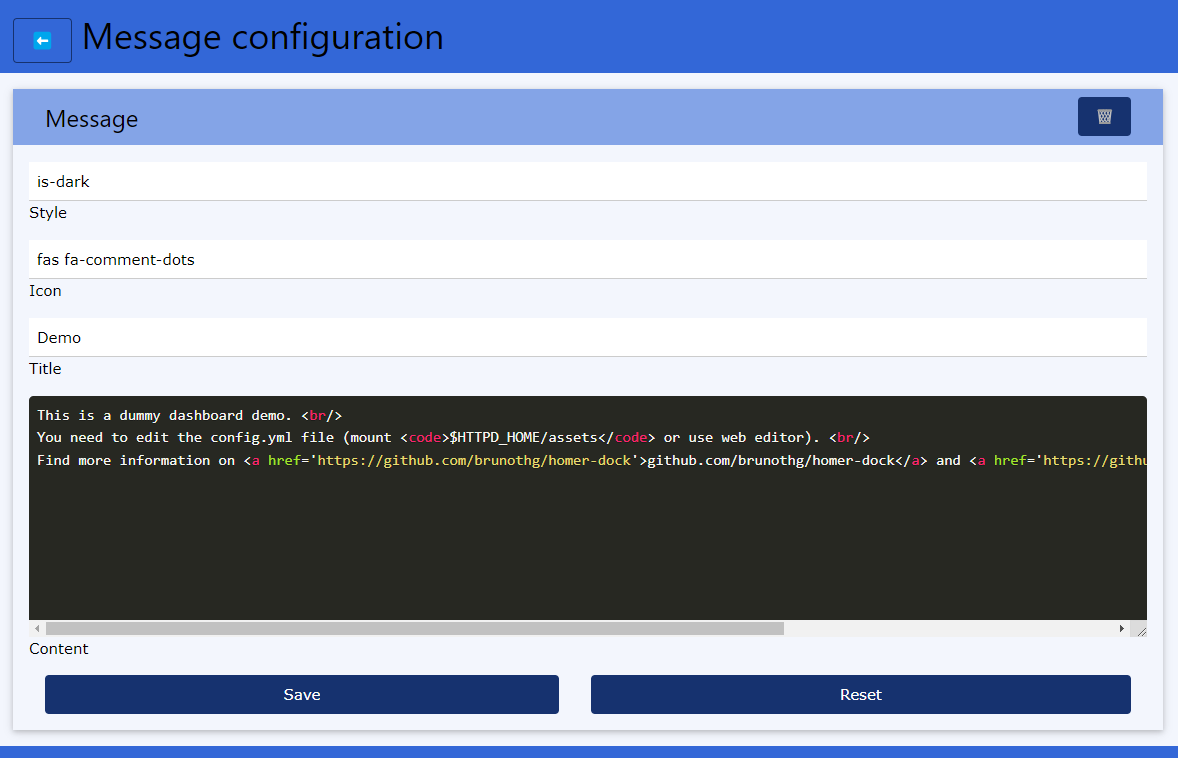
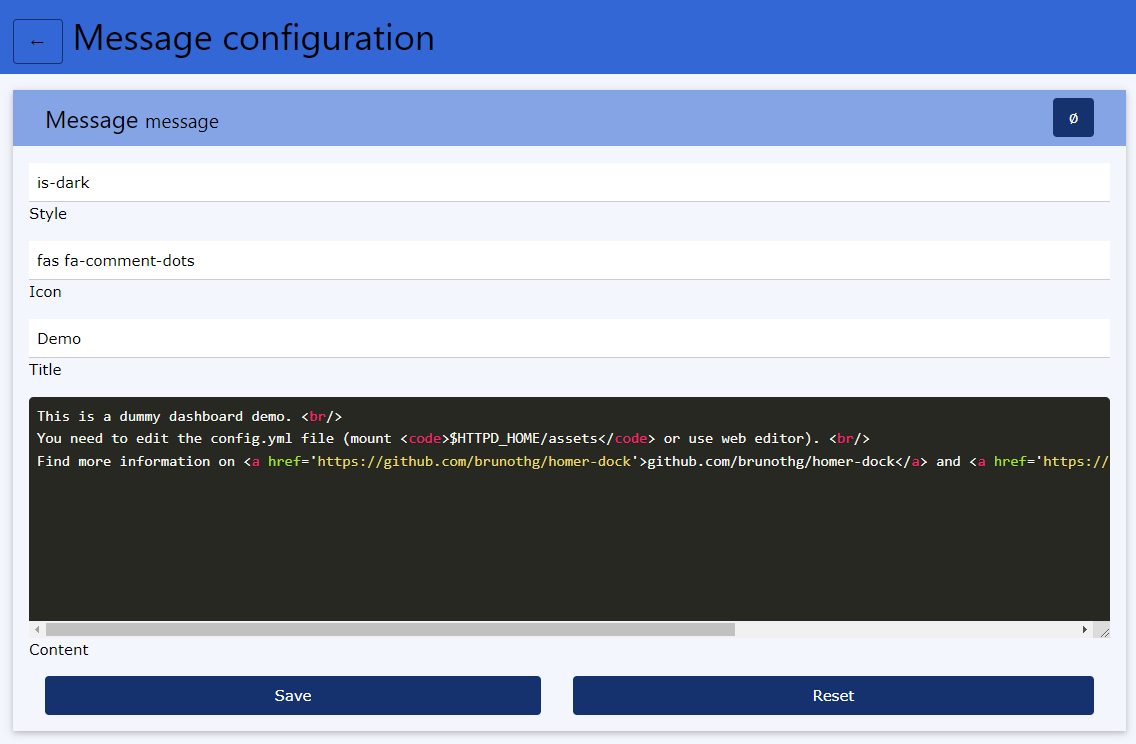
Bugfix/css (#11)
fix css (instead of js)
use theme color

Changed region(s): [[0.0, 0.4328, 1.0, 1.0], [0.0, 0.0, 1.0, 0.3091], [0.0308, 0.3401, 0.1849, 0.4019]]

diff --git a/src/www/config/config.js b/src/www/config/config.js
@@ -1,28 +1,135 @@
 const HomerConfig = new (class {
 
-    objFillForm(obj, form, preserve = false) {
-        form.querySelectorAll('input[name], select[name], textarea[name]').forEach(input => {
-            const name = input.name;
-            if (obj.hasOwnProperty(name) || !preserve) {
-                input.value = obj[name] || null;
-                input.dispatchEvent(new Event('change'));
+            objFillForm(obj, form, preserve = false) {
+                form.querySelectorAll('input[name], select[name], textarea[name]').forEach(input => {
+                    const name = input.name;
+                    if (obj.hasOwnProperty(name) || !preserve) {
+                        input.value = obj[name] || null;
+                        input.dispatchEvent(new Event('change'));
+                    }
+                })
             }
-        })
-    }
 
-    formToObj(form) {
-        if (!form) {
-            return null;
+            formToObj(form) {
+                if (!form) {
+                    return null;
+                }
+                const formData = new FormData(form);
+
+                const dataObj = {};
+                for (const key of formData.keys()) {
+                    const values = formData.getAll(key);
+                    dataObj[key] = (values == null || values.length <= 0) ? null : (values.length === 1) ? values[0] : values;
+                }
+
+                return dataObj;
+            }
+
+            color2Rgba(color) {
+                let r = 0,
+                    g = 0,
+                    b = 0,
+                    a = 1.0;
+
+                if (color) {
+                    if (typeof color === 'string') {
+                        if (color.startsWith('rgb')) {
+                            const parts = color
+                                .split(new RegExp('[(),]'))
+                                .filter(ele => ele != null && !Number.isNaN(parseFloat(ele)));
+                            r = (parts.length > 0) ? parseInt(parts[0]) : 0;
+                            g = (parts.length > 1) ? parseInt(parts[1]) : 0;
+                            b = (parts.length > 2) ? parseInt(parts[2]) : 0;
+                            a = (parts.length > 3) ? parseFloat(parts[3]) : 1.0;
+                        } else if (color.startsWith('#')) {
+                            const parts = (color
+                                .substring(1)
+                                .match(new RegExp('.{1,2}', 'g')) || [])
+                                .filter(ele => ele != null && !Number.isNaN(parseInt(ele, 16)));
+                            r = (parts.length > 0) ? parseInt(parts[0], 16) : 0;
+                            g = (parts.length > 1) ? parseInt(parts[1], 16) : 0;
+                            b = (parts.length > 2) ? parseInt(parts[2], 16) : 0;
+                            a = (parts.length > 3) ? (parseInt(parts[3], 16) / 255.0) : 1.0;
+                        }
+                    }
+                } else if (typeof color === 'object') {
+                    if (
+                        ['r', 'g', 'b']
+                            .map(ele => color.hasOwnProperty(ele))
+                            .reduce((acc, cur) => acc && cur)
+                    ) {
+                        r = color.r || 0;
+                        g = color.g || 0;
+                        b = color.b || 0;
+                        a = (color.a != null) ? color.a : 1.0;
+                    }
+                }
+
+                return ({r: r, g: g, b: b, a: a})
+            }
+
+            color2Hsla(color) {
+                const rgba = this.color2Rgba(color);
+
+                const r = rgba.r / 255;
+                const g = rgba.g / 255;
+                const b = rgba.b / 255;
+                const a = rgba.a;
+
+                const cmin = Math.min(r, g, b);
+                const cmax = Math.max(r, g, b);
+                const delta = cmax - cmin;
+
+                let h, s, l;
+
+                if (delta === 0) {
+                    h = 0;
+                } else if (cmax === r) {
+                    h = ((g - b) / delta) % 6;
+                } else if (cmax === g) {
+                    h = (b - r) / delta + 2;
+                } else {
+                    h = (r - g) / delta + 4;
+                }
+
+                h = Math.round(h * 60);
+                if (h < 0) {
+                    h += 360;
+                }
+
+                l = (cmax + cmin) / 2;
+                s = delta === 0 ? 0 : delta / (1 - Math.abs(2 * l - 1));
+                s = +(s * 100).toFixed(1);
+                l = +(l * 100).toFixed(1);
+
+                return ({h: h, s: s, l: l, a: a});
+            }
+
+            async updateTheme() {
+                const manifestResp = await fetch('config/manifest/manifest.exec');
+                if (!manifestResp.ok) {
+                    console.warn("Could not load manifest:", manifestResp.status, manifestResp.statusText);
+                    return;
+                }
+                const manifest = await manifestResp.json();
+                const themeColor = '' + manifest['theme_color'];
+
+                if (themeColor) {
+                    const hsla = this.color2Hsla(themeColor);
+                    console.log("Update theme color", themeColor, hsla)
+
+                    const docStyle = document.querySelector(':root').style;
+                    docStyle.setProperty('--w3-theme-hsl-h', hsla.h)
+                    docStyle.setProperty('--w3-theme-hsl-s', hsla.s + '%')
+                    docStyle.setProperty('--w3-theme-hsl-l', hsla.l + '%')
+                }
+            }
+
         }
-        const formData = new FormData(form);
 
-        const dataObj = {};
-        for (const key of formData.keys()) {
-            const values = formData.getAll(key);
-            dataObj[key] = (values == null || values.length <= 0) ? null : (values.length === 1) ? values[0] : values;
-        }
+    )()
+;
 
-        return dataObj;
-    }
-
-})();
+HomerConfig
+    .updateTheme()
+    .then();

diff --git a/src/www/config/dashboard/index.html b/src/www/config/dashboard/index.html
@@ -26,7 +26,7 @@ Copyright 2023 brunothg
 
     <title data-lang="dashboard-config-title">Dashboard configuration</title>
 </head>
-<body>
+<body class="w3-flex w3-wh100">
 
 <header class="w3-container w3-theme">
     <h1>
@@ -35,8 +35,8 @@ Copyright 2023 brunothg
     </h1>
 </header>
 
-<main class="w3-container w3-theme-light">
-    <section class="w3-section w3-card">
+<main class="w3-container w3-theme-light w3-flex w3-flex-grow w3-scrollable">
+    <section class="w3-section w3-card w3-flex w3-flex-grow">
         <header class="w3-container w3-row w3-theme-l2">
             <div class="w3-container w3-show-inline-block">
                 <h3><span data-lang="dashboard-config-form-title">Dashboard</span> <small id="dashboard-config-form-subtitle"></small></h3>
@@ -48,10 +48,10 @@ Copyright 2023 brunothg
                 </button>
             </div>
         </header>
-        <form id="dashboard-config-form" name="dashboard-config" class="w3-container">
-            <div class="w3-section">
-                <div class="prism-editor" data-prism-lang="yaml">
-                    <textarea id="dashboard-config-form-input-content" name="content" class="w3-input"></textarea>
+        <form id="dashboard-config-form" name="dashboard-config" class="w3-container w3-flex w3-flex-grow">
+            <div class="w3-section w3-flex w3-flex-grow">
+                <div class="prism-editor w3-flex w3-flex-grow" data-prism-lang="yaml">
+                    <textarea id="dashboard-config-form-input-content" name="content" class="w3-input w3-flex-grow" rows="10"></textarea>
                 </div>
                 <label for="dashboard-config-form-input-content"
                        data-lang="dashboard-config-form-input-configuration">Configuration</label>
@@ -102,22 +102,11 @@ Copyright 2023 brunothg
             deleteDashboard().then();
         });
 
-        function resizeEditor() {
-            dashboardConfigEditor.style.display = 'none';
-            dashboardConfigEditor.style.height = `max(15rem, ${window.innerHeight - document.body.offsetHeight}px)`;
-            dashboardConfigEditor.style.display = '';
-        }
-
-        window.addEventListener('resize', () => {
-            resizeEditor();
-        });
-
         const infoText = document.getElementById('info-text');
 
         function setInfo(info) {
             const now = new Date();
             infoText.innerText = `${(now.getHours() + '').padStart(2, '0')}:${(now.getMinutes() + '').padStart(2, '0')}:${(now.getSeconds() + '').padStart(2, '0')} | ${info}`;
-            resizeEditor();
         }
 
         async function deleteDashboard() {
@@ -169,7 +158,6 @@ Copyright 2023 brunothg
             return dashboardConfig;
         }
 
-        resizeEditor();
         updateDashboard().then();
         PrismEditor.highlightAll();
     }

diff --git a/src/www/config/index.html b/src/www/config/index.html
@@ -22,16 +22,17 @@ Copyright 2023 brunothg
 
     <title data-lang="homer-config-title">Homer configuration</title>
 </head>
-<body>
+<body class="w3-flex w3-wh100">
 
 <header class="w3-container w3-theme">
     <h1>
-        <a class="w3-btn w3-round w3-large w3-border w3-border-theme-action" data-lang-attr="title=back" title="Back" href=".">&larr;</a>
+        <a class="w3-btn w3-round w3-large w3-border w3-border-theme-action" data-lang-attr="title=back" title="Back"
+           href=".">&larr;</a>
         <span data-lang="homer-config-title">Homer configuration</span>
     </h1>
 </header>
 
-<main class="w3-container w3-theme-light">
+<main class="w3-container w3-theme-light w3-flex-grow w3-scrollable">
     <div class="w3-margin-auto" style="max-width: 1280px">
         <section class="w3-section">
             <div>
@@ -41,7 +42,8 @@ Copyright 2023 brunothg
                     </div>
                     <div class="w3-show-inline-block w3-padding w3-right">
                         <button id="homer-config-dashboards-btn-new" type="button"
-                                class="w3-btn w3-round w3-border w3-border-theme-action w3-hover-green" data-lang-attr="title=new" title="New">
+                                class="w3-btn w3-round w3-border w3-border-theme-action w3-hover-green"
+                                data-lang-attr="title=new" title="New">
                             +
                         </button>
                     </div>
@@ -62,7 +64,8 @@ Copyright 2023 brunothg
                     </div>
                     <div class="w3-show-inline-block w3-padding w3-right">
                         <button id="homer-config-messages-btn-new" type="button"
-                                class="w3-btn w3-round w3-border w3-border-theme-action w3-hover-green" data-lang-attr="title=new" title="New">
+                                class="w3-btn w3-round w3-border w3-border-theme-action w3-hover-green"
+                                data-lang-attr="title=new" title="New">
                             +
                         </button>
                     </div>

diff --git a/src/www/resources/w3/w3-addons.css b/src/www/resources/w3/w3-addons.css
@@ -1,5 +1,15 @@
+html {
+    width: 100vw;
+    height: 100vh;
+}
+
 textarea {
     resize: vertical;
+}
+
+input[type=color] {
+    padding: 0;
+    height: 2rem;
 }
 
 .w3-hide-empty:empty {
@@ -20,4 +30,48 @@ textarea {
 
 .w3-capitalize {
     text-transform: capitalize;
+}
+
+.w3-scrollable-x, .w3-scrollable {
+    overflow-x: auto;
+}
+
+.w3-scrollable-y, .w3-scrollable {
+    overflow-y: auto;
+}
+
+.w3-w100, .w3-wh100, .w3-hw100 {
+    width: 100%;
+}
+
+.w3-h100, .w3-wh100, .w3-hw100 {
+    height: 100%;
+}
+
+.w3-flex {
+    display: flex;
+}
+
+.w3-flex-vertical, .w3-flex:not(.w3-flex-horizontal) {
+    flex-direction: column;
+}
+
+.w3-flex-horizontal {
+    flex-direction: row;
+}
+
+.w3-flex-grow, .w3-flex-grow1 {
+    flex-grow: 1;
+}
+
+.w3-flex-shrink, .w3-flex-shrink1 {
+    flex-shrink: 1;
+}
+
+.w3-flex-grow0 {
+    flex-grow: 0;
+}
+
+.w3-flex-shrink0 {
+    flex-shrink: 0;
 }

diff --git a/src/www/config/message/index.html b/src/www/config/message/index.html
@@ -26,7 +26,7 @@ Copyright 2023 brunothg
 
     <title data-lang="message-config-title">Message configuration</title>
 </head>
-<body>
+<body class="w3-flex w3-wh100">
 
 <header class="w3-container w3-theme">
     <h1>
@@ -35,7 +35,7 @@ Copyright 2023 brunothg
     </h1>
 </header>
 
-<main class="w3-container w3-theme-light">
+<main class="w3-container w3-theme-light w3-flex-grow w3-scrollable">
     <section class="w3-section w3-card">
         <header class="w3-container w3-row w3-theme-l2">
             <div class="w3-container w3-show-inline-block">

diff --git a/src/www/resources/lang/lang.js b/src/www/resources/lang/lang.js
@@ -79,5 +79,5 @@ const HomerLang = new (class {
 document.addEventListener("DOMContentLoaded", () => {
     HomerLang.updatePageLang().then((effectiveLang) => {
         console.log("Updated page language: ", effectiveLang);
-    })
+    });
 });

diff --git a/src/www/resources/prism/prism-editor.css b/src/www/resources/prism/prism-editor.css
@@ -7,7 +7,6 @@ Copyright 2023 brunothg
        http://www.apache.org/licenses/LICENSE-2.0
 */
 .prism-editor {
-    display: block;
     position: relative;
 }
 

diff --git a/README.md b/README.md
@@ -18,9 +18,9 @@ It is designed to be lightweight (backed by BusyBox httpd) and capable of being 
 
 ![Configuration](https://raw.github.com/brunothg/homer-dock/main/docs/screenshot-config.png)
 
-![Configuration](https://raw.github.com/brunothg/homer-dock/main/docs/screenshot-config-message.png)
+![Message configuration](https://raw.github.com/brunothg/homer-dock/main/docs/screenshot-config-message.png)
 
-![Configuration](https://raw.github.com/brunothg/homer-dock/main/docs/screenshot-config-dashboard.png)
+![Dashboard configuration](https://raw.github.com/brunothg/homer-dock/main/docs/screenshot-config-dashboard.png)
 
 
 ## Run
